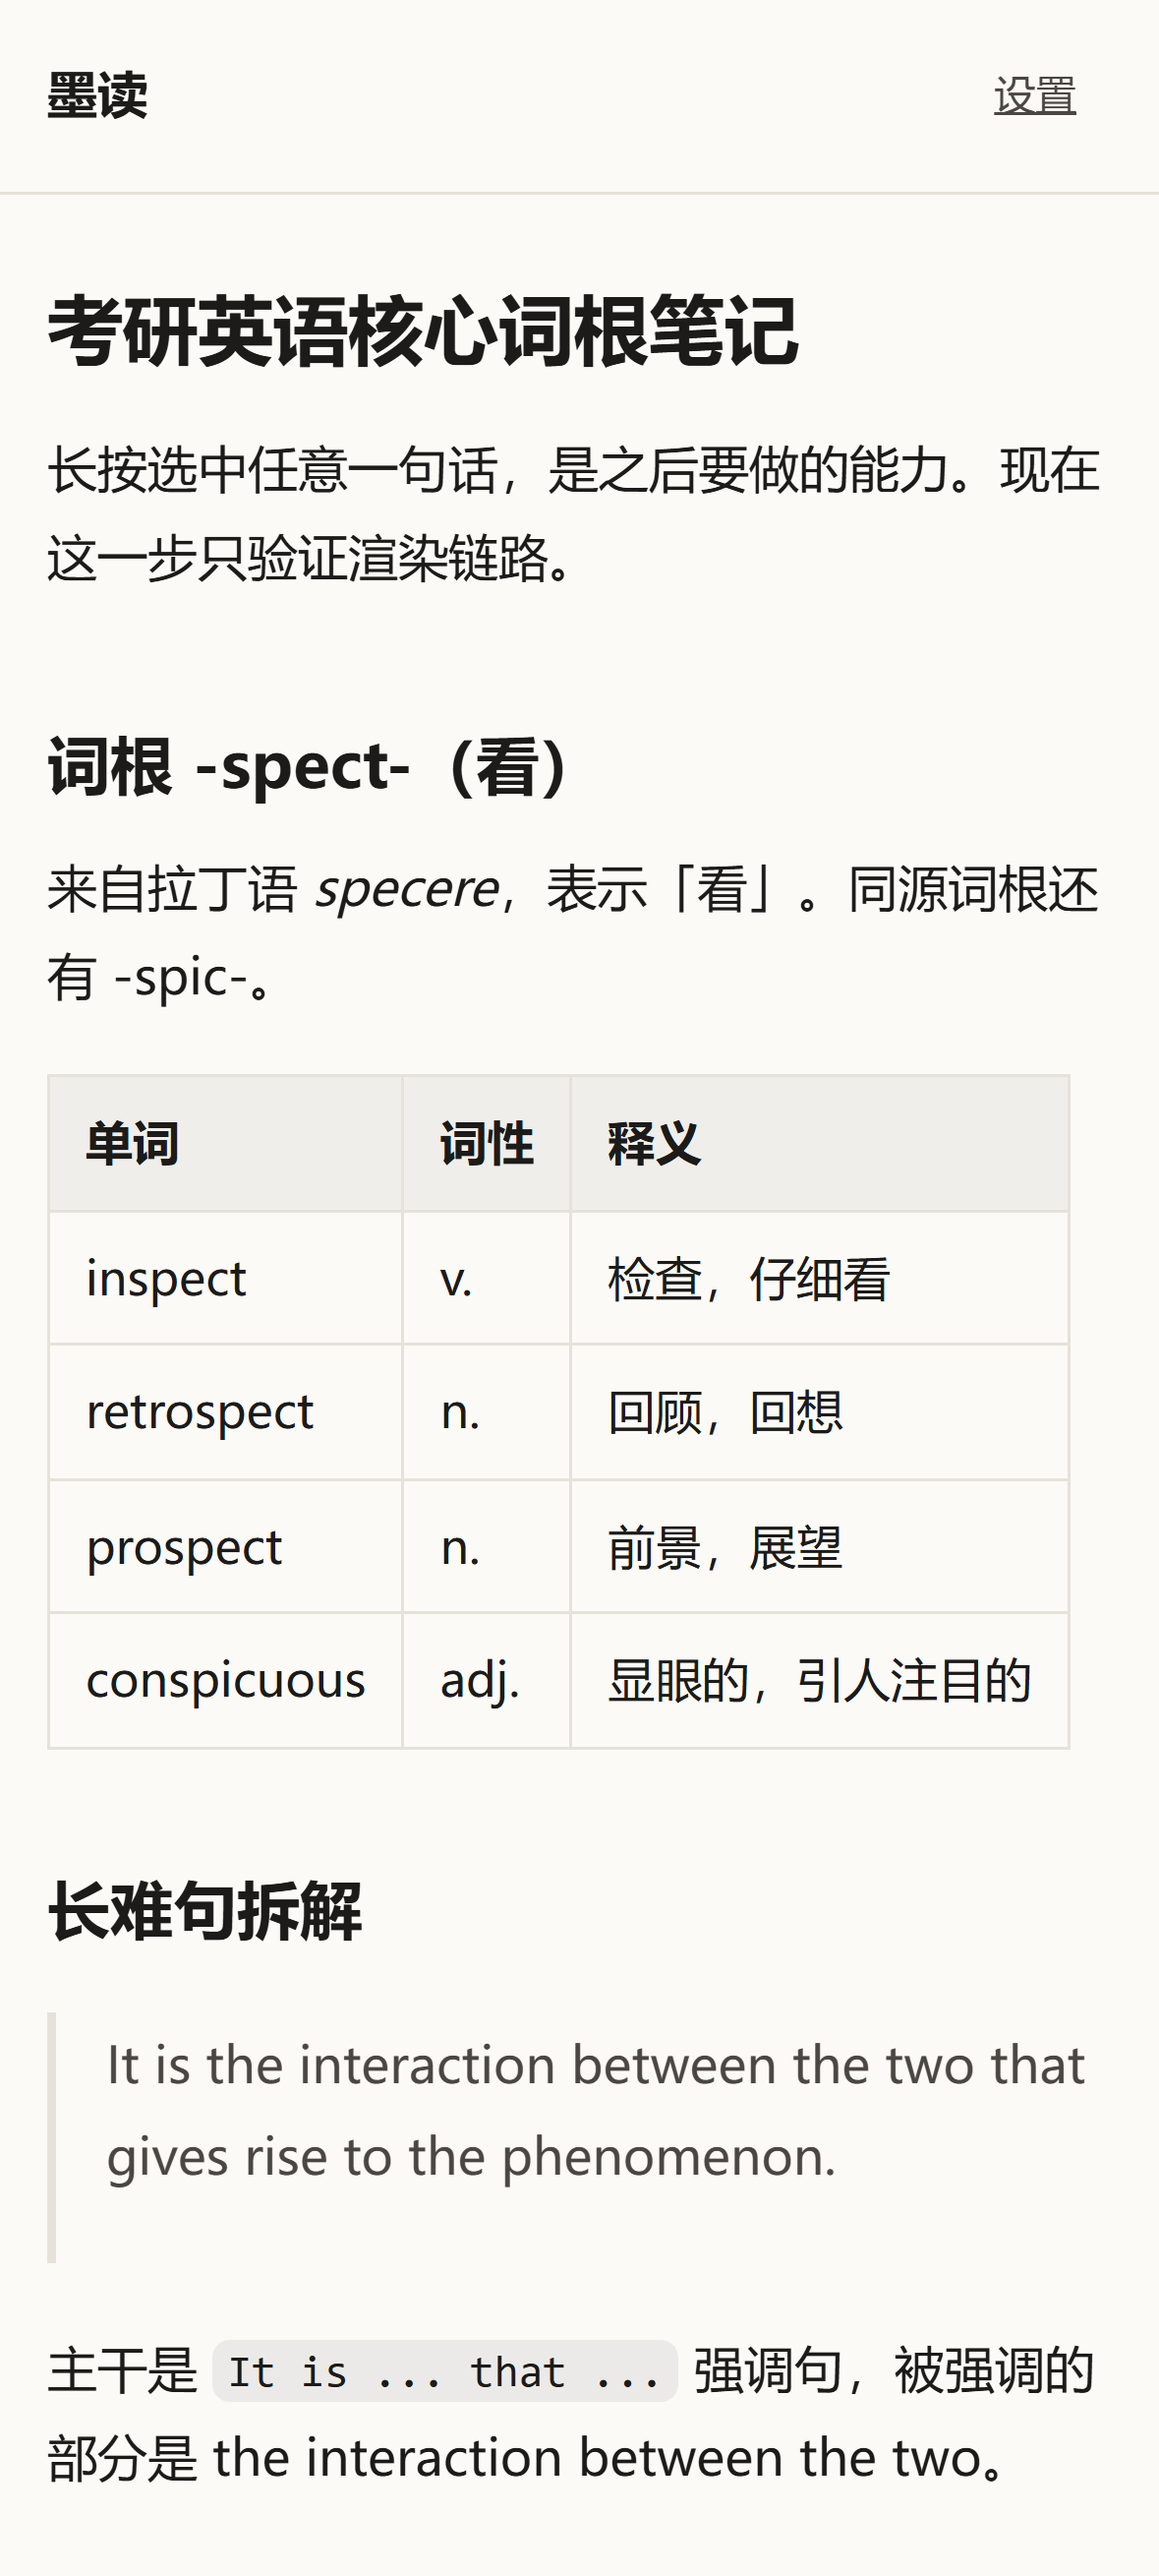
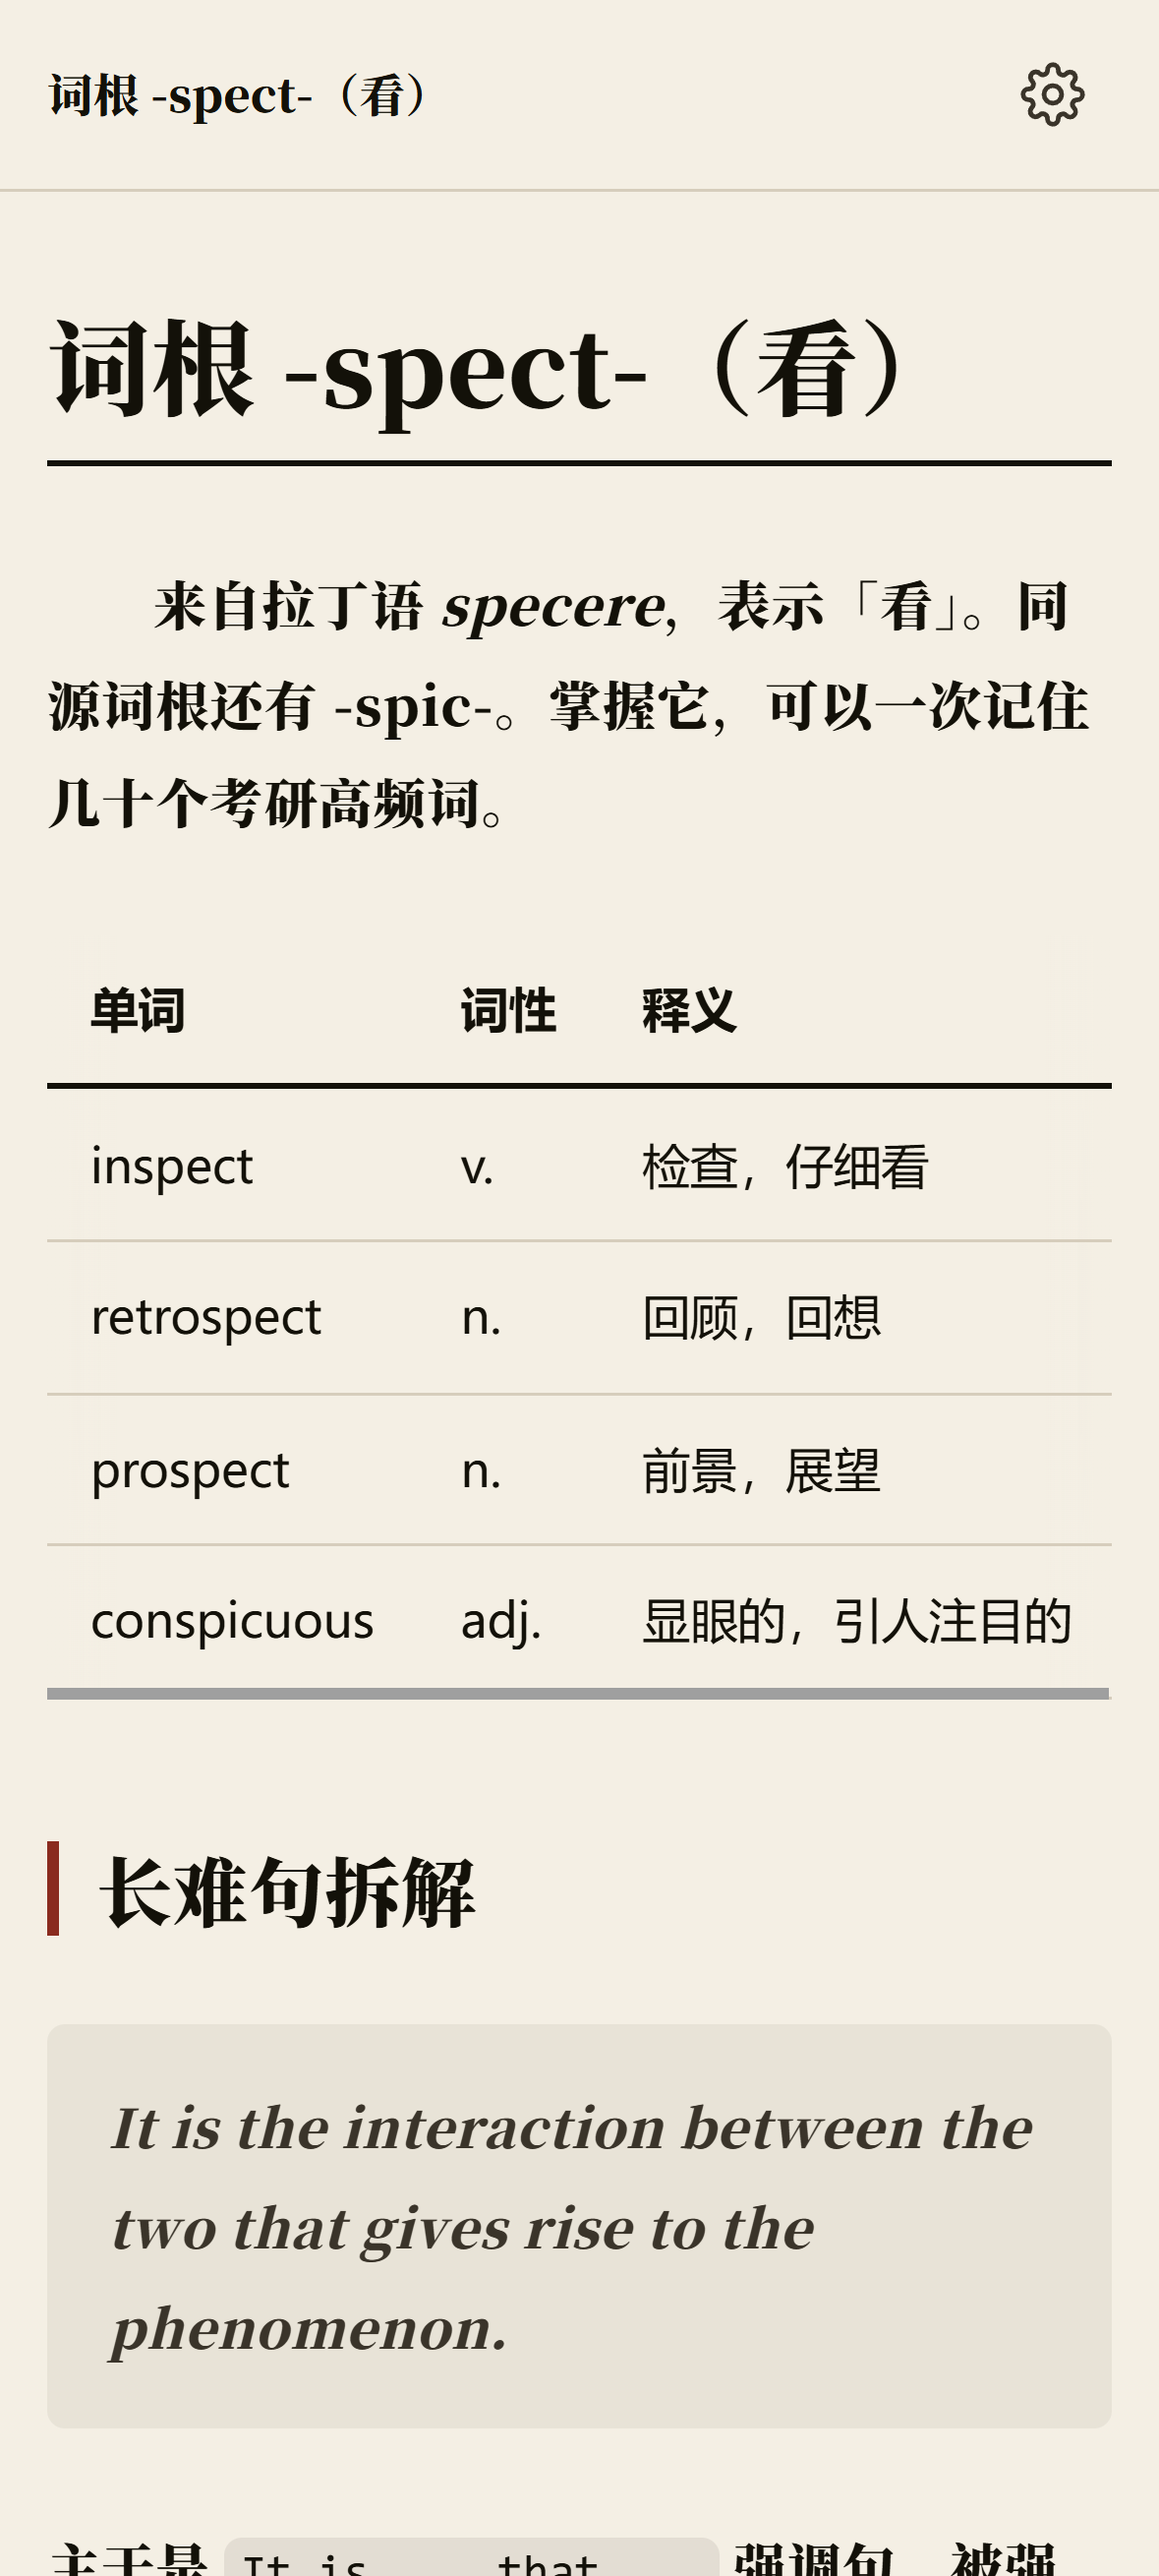
refine(ui): 顶栏收敛为单个图标入口，字号并入设置
用户指出两点（并明确说「不代表没有别的问题」）：
1. 右上角「字号」应该合并进设置 —— 同一类操作不该拆到两处
2. 「设置」两个汉字直白生硬，应该设计图标

处理：
- 顶栏只保留一个齿轮图标入口（内联 SVG，统一 1.75px 描边，
  不用 emoji / 不依赖图标字体），带 aria-label 与 title
- 设置页「返回」换成左箭头图标，标题用等宽占位实现真正居中
- 顺手修掉自查发现的：长文档标题会挤走图标（min-width:0）、
  图标按钮无焦点态、分段控件与开关无 focus-visible

关于 impeccable：已按用户要求撤掉 hook 配置，不引入流程关卡。
设计判断保留在人工审查里，不进门禁 —— 避免教条主义拖慢开发。

Evidence:
- npm run verify → 四道门禁 + 148 项单测 + 构建全绿
- npm run smoke → 16/16（新增 3 项顶栏结构断言：
  入口数=1、是图标不是文字、有无障碍标签）
- 真实 Chrome 截图确认齿轮图标渲染正常、顶栏不再有汉字按钮

diff --git a/web/src/views/app.ts b/web/src/views/app.ts
@@ -88,3 +88,51 @@ export function watchRoute(onChange: () => void): void {
 
 /** 供设置页使用的类型别名。 */
 export type { Settings };
+
+/**
+ * 内联 SVG 图标。
+ *
+ * 只用一套描边参数（1.75px、圆头圆角、currentColor），保证图标与
+ * 杂志风的细线条一致；不用 emoji，也不依赖任何图标字体或外部资源。
+ */
+export type IconName = 'settings' | 'back' | 'type';
+
+const ICON_PATHS: Record<IconName, string> = {
+  // 齿轮：外圈八齿 + 内圆
+  settings:
+    'M12 15.25a3.25 3.25 0 1 0 0-6.5 3.25 3.25 0 0 0 0 6.5Z' +
+    'M19.4 15a1.7 1.7 0 0 0 .34 1.87l.06.06a2 2 0 1 1-2.83 2.83l-.06-.06' +
+    'a1.7 1.7 0 0 0-1.87-.34 1.7 1.7 0 0 0-1.03 1.56V21a2 2 0 1 1-4 0v-.09' +
+    'A1.7 1.7 0 0 0 8.98 19.3a1.7 1.7 0 0 0-1.87.34l-.06.06a2 2 0 1 1-2.83-2.83' +
+    'l.06-.06A1.7 1.7 0 0 0 4.62 15a1.7 1.7 0 0 0-1.56-1.03H3a2 2 0 1 1 0-4h.09' +
+    'A1.7 1.7 0 0 0 4.7 8.98a1.7 1.7 0 0 0-.34-1.87l-.06-.06a2 2 0 1 1 2.83-2.83' +
+    'l.06.06A1.7 1.7 0 0 0 9 4.62a1.7 1.7 0 0 0 1.03-1.56V3a2 2 0 1 1 4 0v.09' +
+    'A1.7 1.7 0 0 0 15.02 4.7a1.7 1.7 0 0 0 1.87-.34l.06-.06a2 2 0 1 1 2.83 2.83' +
+    'l-.06.06A1.7 1.7 0 0 0 19.38 9v.02A1.7 1.7 0 0 0 20.94 10H21a2 2 0 1 1 0 4h-.09' +
+    'A1.7 1.7 0 0 0 19.4 15Z',
+  // 左箭头
+  back: 'M19 12H5M11 18l-6-6 6-6',
+  // 字号：大小两个 A，暗示档位
+  type: 'M3 18 7.5 6 12 18M4.6 14h5.8M14 18l3-8 3 8M15.2 15.2h3.6',
+};
+
+/** 创建一个图标元素。 */
+export function icon(name: IconName): SVGElement {
+  const ns = 'http://www.w3.org/2000/svg';
+  const svg = document.createElementNS(ns, 'svg');
+  svg.setAttribute('viewBox', '0 0 24 24');
+  svg.setAttribute('width', '22');
+  svg.setAttribute('height', '22');
+  svg.setAttribute('fill', 'none');
+  svg.setAttribute('stroke', 'currentColor');
+  svg.setAttribute('stroke-width', '1.75');
+  svg.setAttribute('stroke-linecap', 'round');
+  svg.setAttribute('stroke-linejoin', 'round');
+  svg.setAttribute('aria-hidden', 'true');
+  svg.setAttribute('class', 'icon');
+
+  const path = document.createElementNS(ns, 'path');
+  path.setAttribute('d', ICON_PATHS[name]);
+  svg.append(path);
+  return svg;
+}

diff --git a/web/src/views/settings.ts b/web/src/views/settings.ts
@@ -18,7 +18,7 @@ import {
   TYPE_SCALE_MIN,
 } from '../core/typography';
 import type { Settings, State } from '../core/types';
-import { el, type ViewDeps } from './app';
+import { el, icon, type ViewDeps } from './app';
 
 /** 档位调节器：左右按钮 + 进度点 + 当前档位名。 */
 function stepper(options: {
@@ -225,10 +225,11 @@ export function renderSettings(
 
   const actions: Node[] = [
     el('button', {
-      class: 'btn',
+      class: 'icon-btn',
       type: 'button',
       'data-testid': options.fontOnly ? 'close-font-sheet' : 'back-home',
-      text: options.fontOnly ? '完成' : '返回',
+      'aria-label': options.fontOnly ? '完成' : '返回',
+      title: options.fontOnly ? '完成' : '返回',
       onclick: () => {
         if (closeTarget !== null) {
           deps.dispatch({ type: 'overlay/opened', overlay: 'font' });
@@ -236,7 +237,7 @@ export function renderSettings(
           location.hash = '#/';
         }
       },
-    }),
+    }, icon('back')),
   ];
 
   return el(
@@ -244,13 +245,15 @@ export function renderSettings(
     { class: 'shell', 'data-testid': 'shell' },
     el(
       'header',
-      { class: 'appbar' },
+      { class: 'appbar appbar--center' },
       ...actions,
       el('h1', {
         class: 'appbar__title',
         'data-testid': 'app-title',
         text: options.fontOnly ? '排版' : '设置',
       }),
+      // 右侧占位，保证标题真正居中而不是「视觉上偏左」
+      el('span', { class: 'appbar__spacer', 'aria-hidden': 'true' }),
     ),
     el('main', { class: 'main' }, el('div', { class: 'panel', 'data-testid': 'settings-panel' }, ...rows)),
   );

diff --git a/web/src/styles/app.css b/web/src/styles/app.css
@@ -61,7 +61,7 @@ body {
 
 .appbar__title {
   flex: 1;
-  min-width: 0;
+  min-width: 0; /* 关键：允许 flex 子项收缩，长标题才会触发省略号而不是挤走图标 */
   margin: 0;
   font-family: var(--font-serif);
   font-size: var(--fs-small);
@@ -71,6 +71,59 @@ body {
   white-space: nowrap;
   overflow: hidden;
   text-overflow: ellipsis;
+}
+
+/* 设置页：返回图标在左、标题居中、右侧等宽占位 */
+.appbar--center .appbar__title {
+  text-align: center;
+  flex: 1;
+}
+
+.appbar__spacer {
+  flex: 0 0 40px;
+  width: 40px;
+}
+
+/* ── 图标按钮 ─────────────────────────────── */
+
+.icon-btn {
+  appearance: none;
+  flex: 0 0 40px;
+  width: 40px;
+  height: 40px;
+  display: grid;
+  place-items: center;
+  border: 1px solid transparent;
+  border-radius: var(--r-md);
+  background: transparent;
+  color: var(--ink-soft);
+  cursor: pointer;
+  -webkit-tap-highlight-color: transparent;
+  transition: background var(--dur-fast) var(--ease-out),
+    color var(--dur-fast) var(--ease-out),
+    border-color var(--dur-fast) var(--ease-out);
+}
+
+.icon-btn:hover {
+  color: var(--ink);
+  background: color-mix(in srgb, var(--ink) 5%, transparent);
+}
+
+.icon-btn:active {
+  transform: scale(0.94);
+}
+
+.icon-btn:focus-visible,
+.btn:focus-visible,
+.stepper__btn:focus-visible,
+.segmented__item:focus-visible,
+.switch:focus-visible {
+  outline: 2px solid var(--accent);
+  outline-offset: 2px;
+}
+
+.icon {
+  display: block;
 }
 
 .btn {

diff --git a/web/src/views/reader.ts b/web/src/views/reader.ts
@@ -6,7 +6,7 @@
  */
 
 import type { State, TaskState } from '../core/types';
-import { el, type ViewDeps } from './app';
+import { el, icon, type ViewDeps } from './app';
 
 /** 从二进制渲染结果里取出当前文档的任务状态。 */
 function tasksFor(state: State): readonly TaskState[] {
@@ -60,20 +60,17 @@ function bindTaskToggles(article: HTMLElement, state: State, deps: ViewDeps): vo
 export function renderReader(state: State, deps: ViewDeps): HTMLElement {
   const doc = state.docs.find((d) => d.id === state.currentDocId) ?? null;
 
+  // 顶栏只有一个入口：设置。
+  // 字号调节属于排版设置，合并进设置页，不再单独占一个「字号」按钮 ——
+  // 两个汉字按钮并排太直白，也把同一类操作拆到了两处。
   const actions: Node[] = [
-    el('button', {
-      class: 'btn',
-      type: 'button',
-      'data-testid': 'open-font-sheet',
-      text: '字号',
-      onclick: () => deps.dispatch({ type: 'overlay/opened', overlay: 'font' }),
-    }),
     el('a', {
-      class: 'btn',
+      class: 'icon-btn',
       href: '#/settings',
       'data-testid': 'open-settings',
-      text: '设置',
-    }),
+      'aria-label': '设置',
+      title: '设置',
+    }, icon('settings')),
   ];
 
   const title = doc?.title ?? '墨读';
